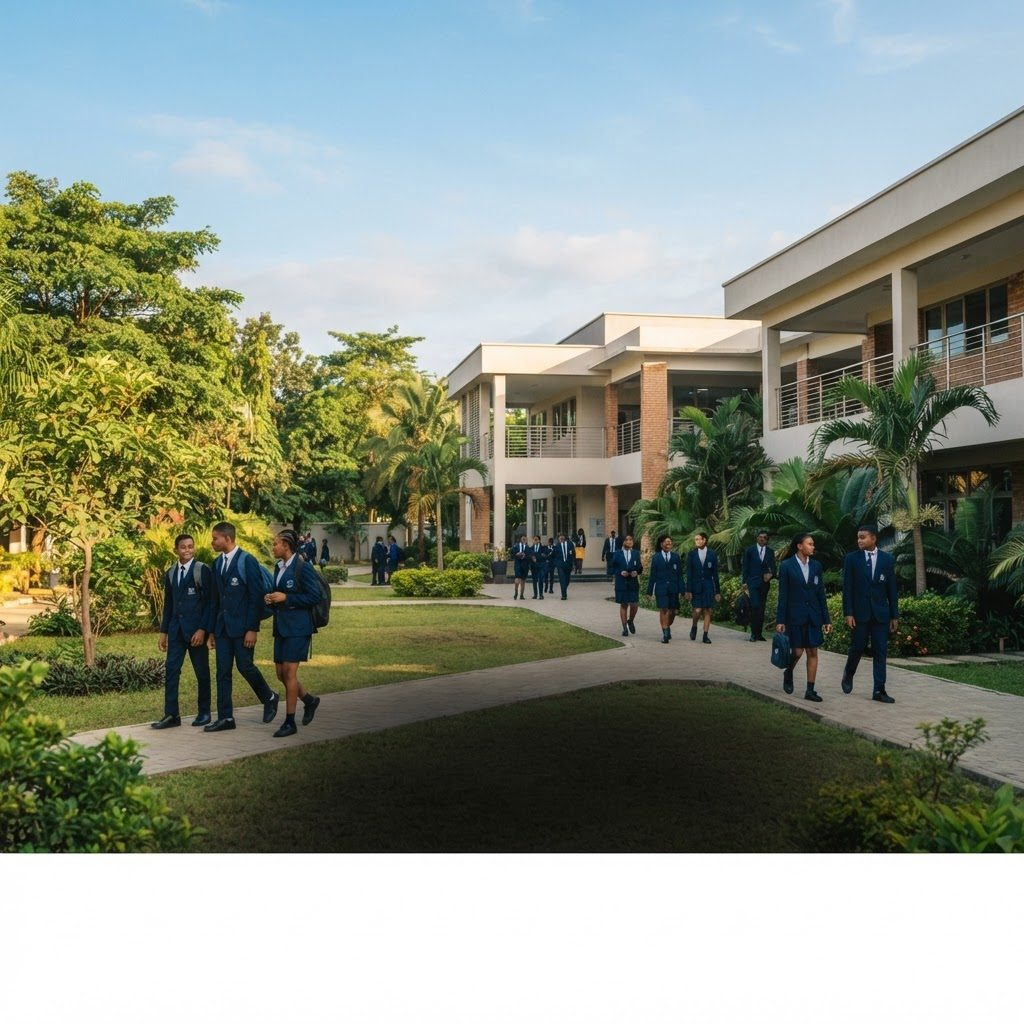
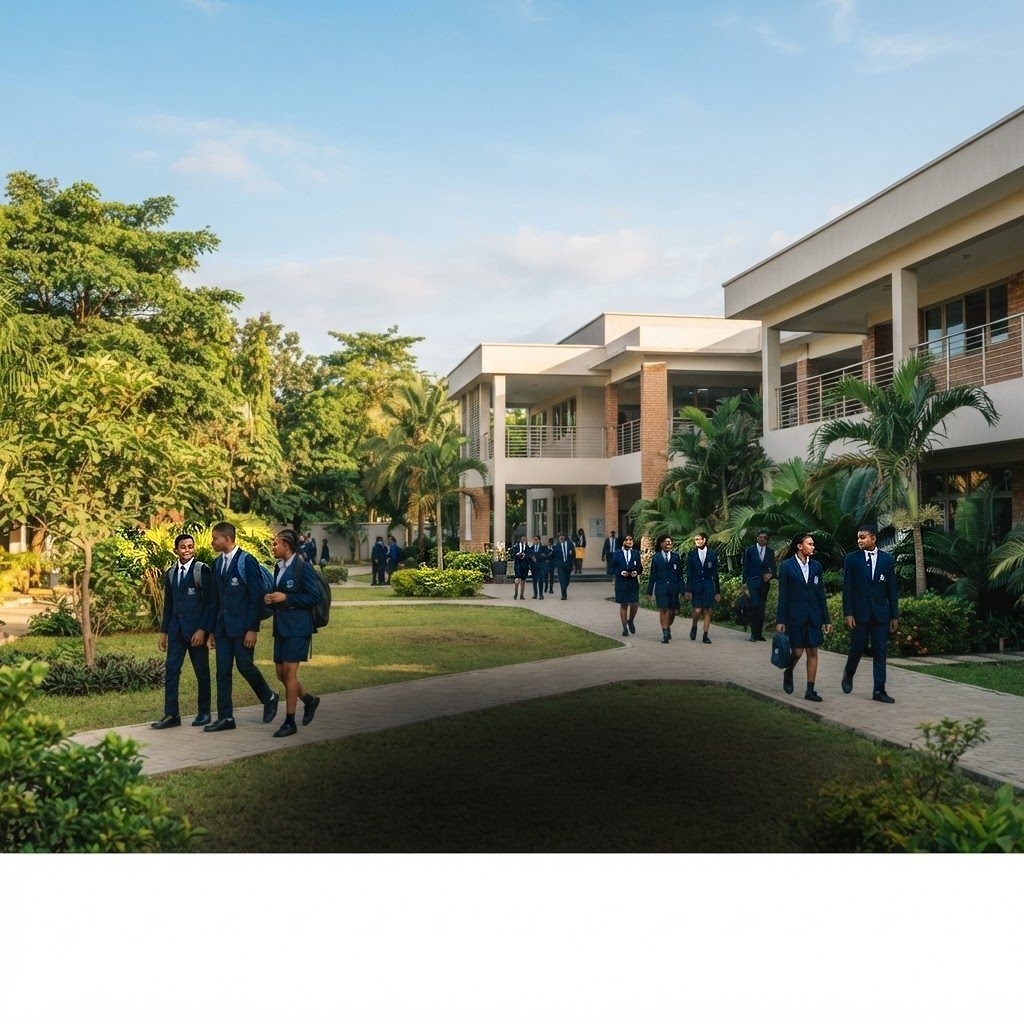
Get started button goes to signup; hero faces subtly enhanced

diff --git a/app/page.tsx b/app/page.tsx
@@ -53,7 +53,7 @@ export default function Page() {
 
     <section id="faq" className="scroll-mt-16 border-y border-[#dfe3da] bg-white px-5 py-24 sm:px-8 sm:py-32 lg:px-10"><div className="mx-auto grid max-w-7xl gap-12 lg:grid-cols-[.75fr_1.25fr] lg:gap-20"><div><p className="eyebrow">Questions, answered</p><h2 className="section-title mt-4">A few things you may want to know.</h2></div><div className="divide-y divide-[#dfe3da] border-y border-[#dfe3da]">{faqs.map(([question,answer]) => <details key={question} className="group"><summary className="flex cursor-pointer list-none items-center justify-between gap-4 py-6 text-lg font-semibold [&::-webkit-details-marker]:hidden">{question}<span className="grid size-9 place-items-center rounded-full bg-[#eff4ea] transition group-open:rotate-180"><ChevronDown className="size-4" /></span></summary><p className="max-w-2xl pb-6 pr-12 leading-7 text-[#667069]">{answer}</p></details>)}</div></div></section>
 
-    <section id="contact" className="px-5 py-6 sm:px-8 lg:px-10"><div className="relative mx-auto max-w-7xl overflow-hidden rounded-[32px] bg-[#d8ff63] px-6 py-16 sm:px-12 sm:py-20 lg:px-20"><Building2 className="absolute -right-6 -top-6 size-64 text-[#17351f]/5" /><div className="relative max-w-3xl"><p className="eyebrow">Your next step</p><h2 className="mt-4 text-balance text-4xl font-medium leading-[.98] tracking-[-.055em] sm:text-6xl">Make your application easier to manage.</h2><p className="mt-6 max-w-xl text-lg leading-8 text-[#425246]">Join students building a clearer path to university with UniPath.</p><a href="mailto:hello@unipath.ng?subject=I%20want%20to%20get%20started" className="button-dark mt-8">Get started for free <ArrowRight className="size-4" /></a></div></div></section>
+    <section id="contact" className="px-5 py-6 sm:px-8 lg:px-10"><div className="relative mx-auto max-w-7xl overflow-hidden rounded-[32px] bg-[#d8ff63] px-6 py-16 sm:px-12 sm:py-20 lg:px-20"><Building2 className="absolute -right-6 -top-6 size-64 text-[#17351f]/5" /><div className="relative max-w-3xl"><p className="eyebrow">Your next step</p><h2 className="mt-4 text-balance text-4xl font-medium leading-[.98] tracking-[-.055em] sm:text-6xl">Make your application easier to manage.</h2><p className="mt-6 max-w-xl text-lg leading-8 text-[#425246]">Join students building a clearer path to university with UniPath.</p><a href="/auth" className="button-dark mt-8">Get started for free <ArrowRight className="size-4" /></a></div></div></section>
 
     <footer className="px-5 pb-8 pt-14 sm:px-8 lg:px-10"><div className="mx-auto max-w-7xl border-t border-[#dfe3da] pt-8"><div className="flex flex-col gap-8 sm:flex-row sm:items-center sm:justify-between"><a href="#top" className="flex items-center gap-2.5"><span className="grid size-9 place-items-center rounded-xl bg-[#17351f] text-[#d8ff63]"><GraduationCap className="size-5" /></span><span className="text-xl font-semibold">UniPath</span></a><div className="flex flex-wrap gap-6 text-sm text-[#667069]"><a href="#features">Features</a><a href="#faq">FAQs</a><a href="mailto:hello@unipath.ng"><Mail className="mr-1.5 inline size-4" />hello@unipath.ng</a></div></div><div className="mt-10 flex flex-col gap-2 border-t border-[#dfe3da] pt-5 text-xs text-[#7c857f] sm:flex-row sm:justify-between"><p>© 2026 UniPath. All rights reserved.</p><p>Built to help students move forward.</p></div></div></footer>
   </main>
